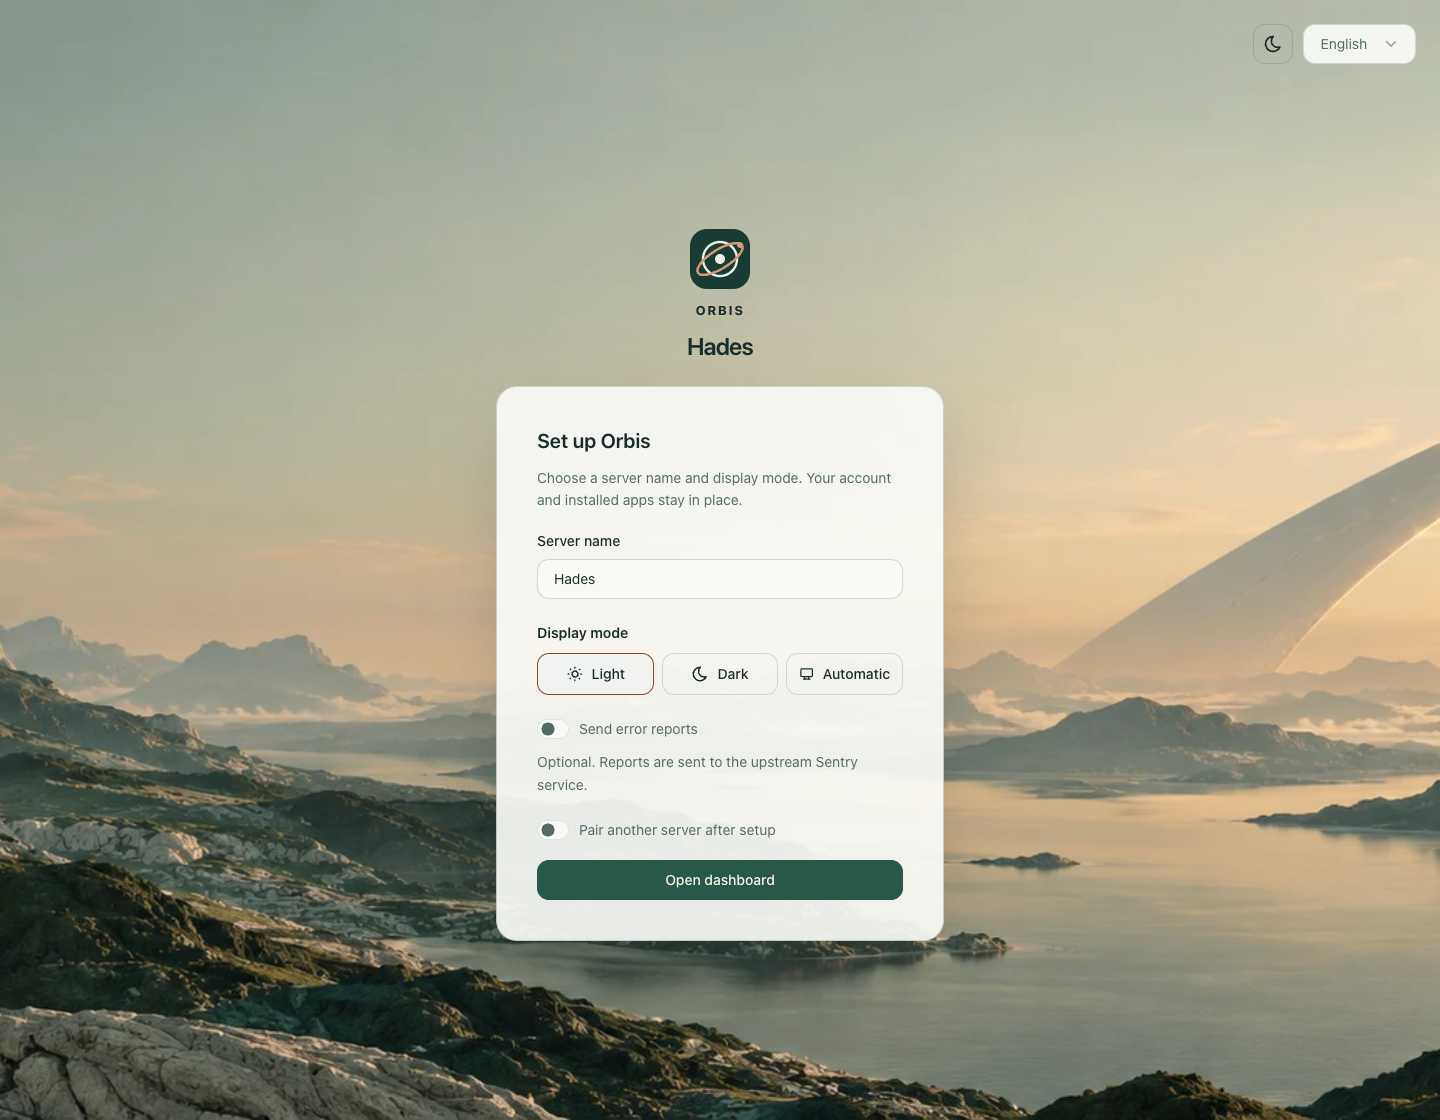
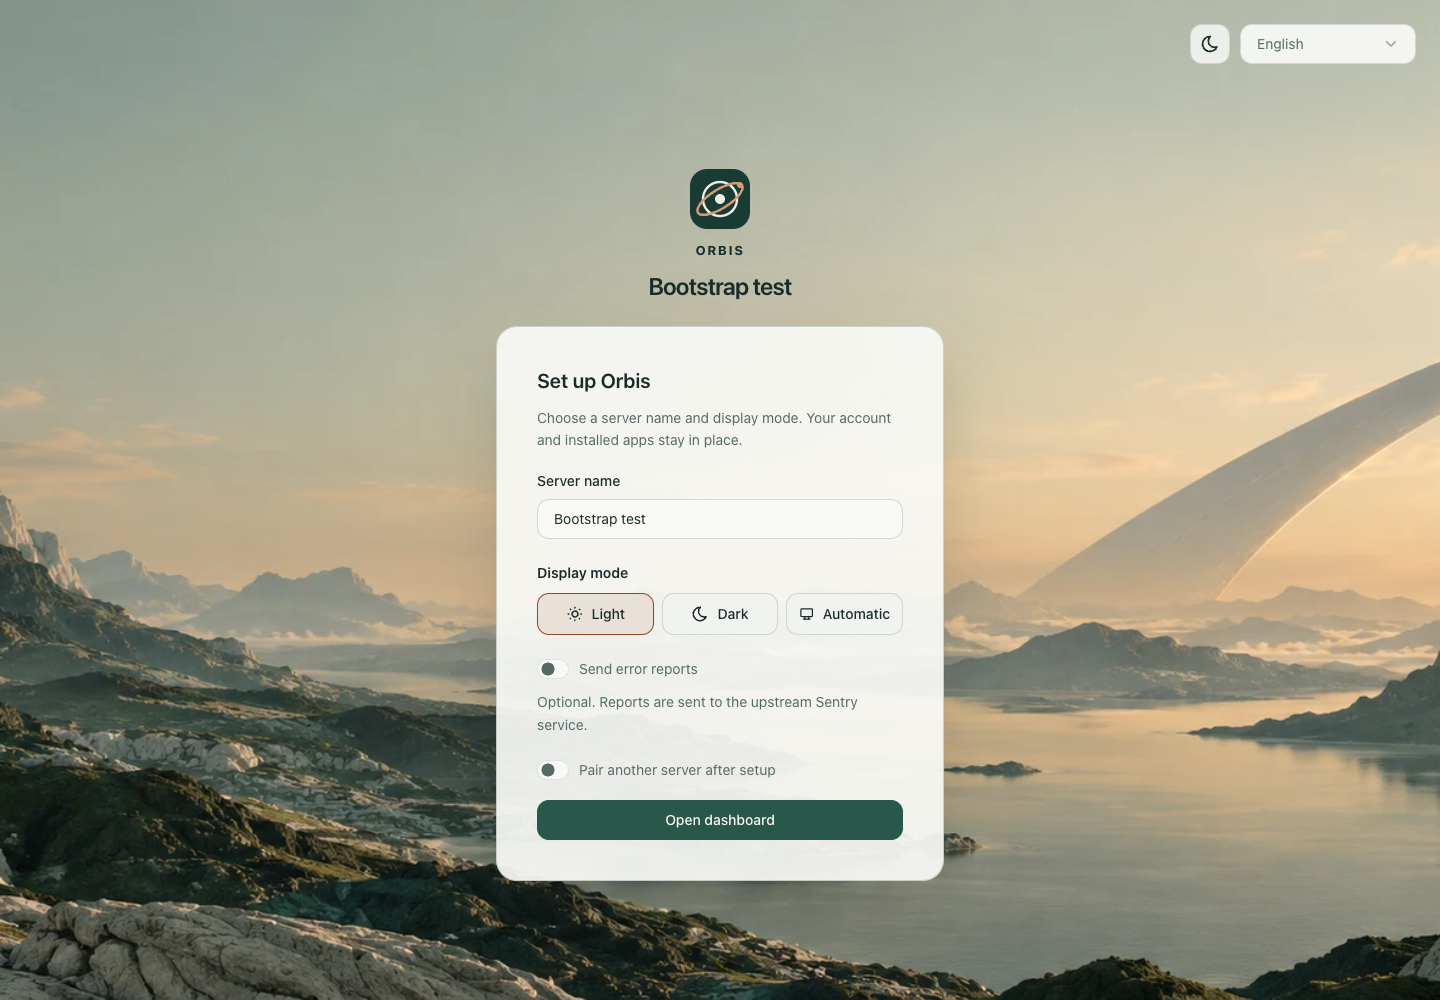
Reflow authentication controls and clarify first-server setup

diff --git a/packages/frontend/src/app.css b/packages/frontend/src/app.css
@@ -91,7 +91,10 @@ body:has(.desktop[data-desktop-mode="dark"]) {
 .desktop-auth {
   --desktop-wallpaper: url("/wallpapers/orbis-horizon.webp");
   position: relative;
-  padding-block: 88px 40px;
+  display: grid;
+  grid-template-rows: auto 1fr;
+  justify-content: stretch;
+  padding-block: 24px 40px;
   min-height: 100vh;
   background: #c9d0bc var(--desktop-wallpaper) center center / cover fixed;
   color: var(--desktop-ink);
@@ -110,6 +113,7 @@ body:has(.desktop[data-desktop-mode="dark"]) {
   box-shadow: 0 28px 70px rgba(28, 39, 35, 0.17);
 }
 .desktop-auth-container {
+  align-self: center;
   padding-block: 24px;
 }
 .desktop-auth-identity {
@@ -193,11 +197,14 @@ body:has(.desktop[data-desktop-mode="dark"]) {
   gap: 8px;
   padding: 10px 12px;
   white-space: normal;
+  color: var(--desktop-ink);
+  background: var(--desktop-code-background);
+  border-color: var(--desktop-line);
 }
 .desktop-setup-modes .btn[aria-pressed="true"] {
   color: var(--desktop-ink);
   border-color: var(--desktop-accent);
-  background: var(--desktop-code-background);
+  background: color-mix(in srgb, var(--desktop-accent) 14%, var(--desktop-surface));
 }
 .desktop-welcome :is(h2, h3, p, .orbis-switch) {
   margin: 0;
@@ -252,7 +259,7 @@ body:has(.desktop[data-desktop-mode="dark"]) {
 @media (max-width: 640px) {
   .desktop-auth {
     background-attachment: scroll;
-    padding-block: 76px 24px;
+    padding-block: 16px 24px;
   }
   .desktop-auth .container-tight {
     width: min(100%, 480px);
@@ -281,17 +288,29 @@ body:has(.desktop[data-desktop-mode="dark"]) {
 }
 
 .desktop-auth-toolbar {
-  position: absolute;
-  top: 24px;
-  right: 24px;
   display: flex;
+  flex-wrap: wrap;
   align-items: center;
+  justify-content: flex-end;
   gap: 10px;
+  width: 100%;
+  padding-inline: 24px;
+  margin-bottom: 24px;
+}
+.desktop-auth-toolbar > .btn {
+  flex: 0 0 auto;
+  color: var(--desktop-ink);
+  background: var(--desktop-code-background);
+  border-color: var(--desktop-line);
+}
+.desktop-auth-toolbar > label {
+  flex: 0 0 11rem;
+  min-width: 0;
+  max-width: 100%;
 }
 @media (max-width: 480px) {
   .desktop-auth-toolbar {
-    right: 16px;
-    top: 16px;
+    padding-inline: 16px;
   }
 }
 

diff --git a/packages/backend/src/modules/desktop-preferences/desktop-preferences.service.ts b/packages/backend/src/modules/desktop-preferences/desktop-preferences.service.ts
@@ -8,7 +8,7 @@ import { desktopPreferencesSchema } from './desktop-preferences.dto';
 
 export type DesktopPreferences = typeof desktopPreferencesSchema.infer;
 export const DEFAULT_DESKTOP_PREFERENCES: DesktopPreferences & { workspace: NonNullable<DesktopPreferences['workspace']> } = {
-  serverName: 'Hades',
+  serverName: 'Server',
   preset: 'frost',
   mode: 'light',
   density: 'comfortable',

diff --git a/packages/frontend/src/desktop/preferences.tsx b/packages/frontend/src/desktop/preferences.tsx
@@ -21,7 +21,7 @@ export type DesktopPreferences = {
 };
 
 export const defaultDesktopPreferences: DesktopPreferences = {
-  serverName: 'Hades',
+  serverName: 'Server',
   preset: 'frost',
   mode: 'light',
   density: 'comfortable',

diff --git a/screenshots/navigation/README.md b/screenshots/navigation/README.md
@@ -1,6 +1,6 @@
 # Navigation, server clusters and app launchers
 
-Dashboard captures from 22 October 2026; login captures from 21 October 2026. These are original browser captures using sample apps and two Orbis instances on one disposable test machine. Each instance has a running demo app; five additional sample app records have no containers.
+Captures from 22 October 2026. Login and setup use the locally built frontend with an actual Orbis beta64 backend initialized on PostgreSQL 17 in a separate disposable Linux machine. They show the neutral default name and responsive authentication toolbar. The remaining captures use sample apps and two Orbis instances on another disposable test machine. Each instance has a running demo app; five additional sample app records have no containers.
 
 This gallery shows page navigation, direct selection through the animated 3D server cases, merged apps and updates, desktop launchers, the split dock and phone app management. Minimized apps share the navigation dock's bottom row, and navigation contracts to icons after the fourth minimized app. Phones use ordinary pages. The instances share a Docker daemon, so detected containers can appear under both servers. These captures do not demonstrate a physical multi-host deployment or a real homelab migration.
 

diff --git a/releases/v0.1.0-beta.65.md b/releases/v0.1.0-beta.65.md
@@ -7,6 +7,7 @@
 - Initialize an empty Linux server directory with pinned PostgreSQL 17, RabbitMQ 4 and Traefik 3.6 images. Keep database and queue ports private.
 - Record interrupted initialization and resume startup without overwriting an environment or app data already accepted by the controller.
 - Enable the restricted host administration service through a dedicated read-only socket mount. Resume identical partial helper copies and retain their configuration in enrollment checks.
+- Use a neutral default server name, keep login controls inside narrow enlarged-text layouts, and give setup mode buttons readable theme colours.
 
 ## Docker compatibility
 
